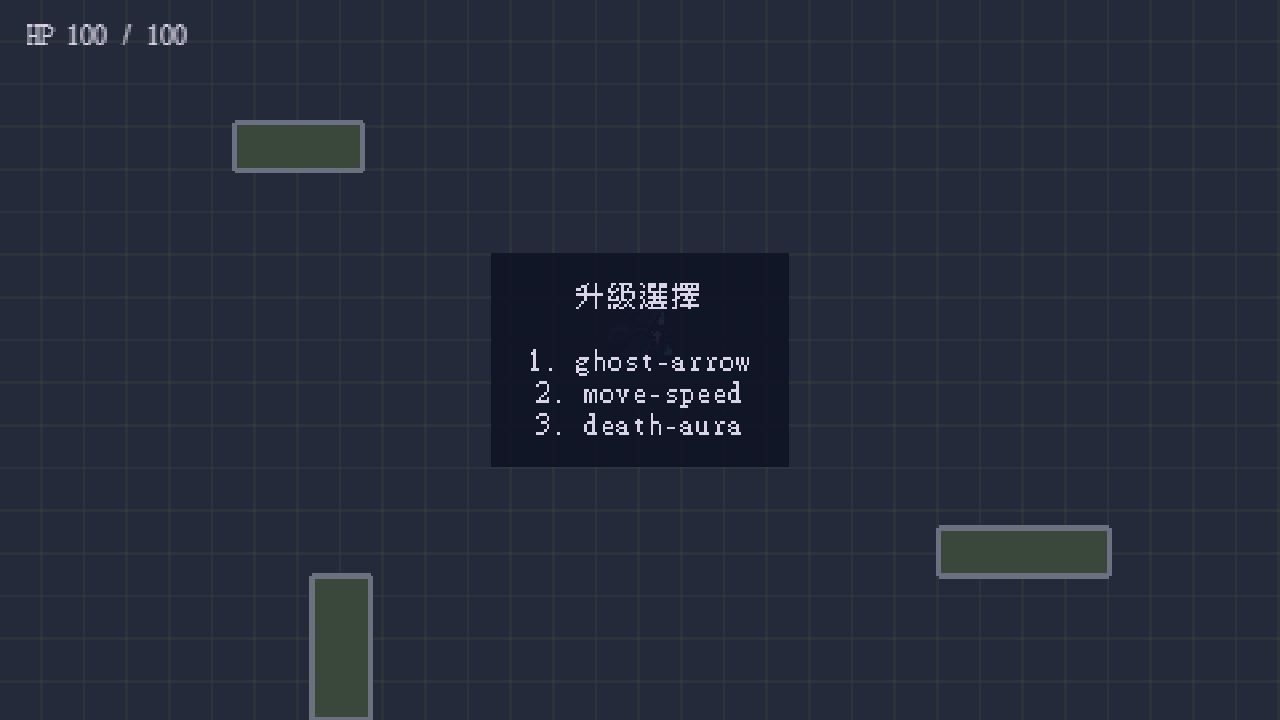
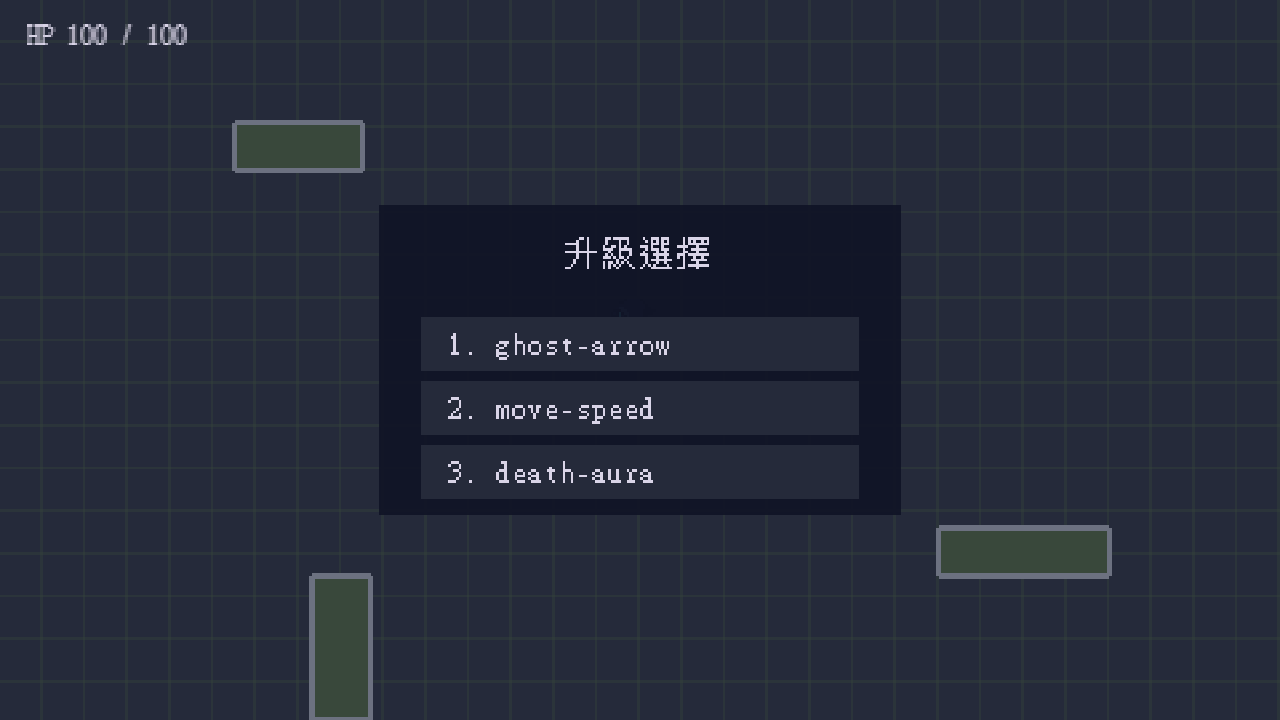
Fix upgrade stepping and pointer hit areas

diff --git a/src/game/scenes/OverlayScene.ts b/src/game/scenes/OverlayScene.ts
@@ -2,11 +2,15 @@ import Phaser from 'phaser';
 
 import { GAME_HEIGHT, SCENE_KEYS } from '../constants';
 import { offGameEvent, onGameEvent, type EventEnvelope } from '../events/GameEventBus';
+import { UPGRADE_HEADING_Y, UPGRADE_OPTION_BOUNDS, UPGRADE_PANEL } from '../ui/upgradeLayout';
 
 export class OverlayScene extends Phaser.Scene {
   private healthText!: Phaser.GameObjects.Text;
   private pauseText!: Phaser.GameObjects.Text;
-  private upgradeText!: Phaser.GameObjects.Text;
+  private upgradePanel!: Phaser.GameObjects.Rectangle;
+  private upgradeHeading!: Phaser.GameObjects.Text;
+  private readonly upgradeRows: Phaser.GameObjects.Rectangle[] = [];
+  private readonly upgradeOptions: Phaser.GameObjects.Text[] = [];
 
   constructor() {
     super(SCENE_KEYS.overlay);
@@ -27,18 +31,54 @@ export class OverlayScene extends Phaser.Scene {
       })
       .setOrigin(0.5)
       .setVisible(false);
-    this.upgradeText = this.add
-      .text(240, GAME_HEIGHT / 2, '', {
+    this.upgradePanel = this.add
+      .rectangle(
+        UPGRADE_PANEL.x,
+        UPGRADE_PANEL.y,
+        UPGRADE_PANEL.width,
+        UPGRADE_PANEL.height,
+        0x101426,
+        0.94,
+      )
+      .setDepth(9)
+      .setVisible(false);
+    this.upgradeHeading = this.add
+      .text(UPGRADE_PANEL.x, UPGRADE_HEADING_Y, '', {
         align: 'center',
-        backgroundColor: '#101426ee',
         color: '#d9d4e7',
         fontFamily: 'monospace',
-        fontSize: '11px',
-        padding: { x: 14, y: 10 },
+        fontSize: '13px',
       })
       .setOrigin(0.5)
       .setDepth(10)
       .setVisible(false);
+    UPGRADE_OPTION_BOUNDS.forEach((bounds) => {
+      this.upgradeRows.push(
+        this.add
+          .rectangle(
+            bounds.x + bounds.width / 2,
+            bounds.y + bounds.height / 2,
+            bounds.width,
+            bounds.height,
+            0x252a3a,
+          )
+          .setDepth(10)
+          .setVisible(false),
+      );
+      this.upgradeOptions.push(
+        this.add
+          .text(bounds.x + 6, bounds.y + bounds.height / 2, '', {
+            color: '#d9d4e7',
+            fixedWidth: bounds.width - 12,
+            fontFamily: 'monospace',
+            fontSize: '11px',
+            padding: { x: 4, y: 2 },
+          })
+          .setOrigin(0, 0.5)
+          .setDepth(10)
+          .setVisible(false),
+      );
+    });
 
     onGameEvent(this.registry.events, 'player:health-changed', this.onHealth, this);
     onGameEvent(this.registry.events, 'game:pause-changed', this.onPause, this);
@@ -62,11 +102,18 @@ export class OverlayScene extends Phaser.Scene {
 
   private onUpgradeOffered(event: EventEnvelope<'upgrade:offered'>): void {
     const heading = event.payload.source === 'boss' ? '關卡獎勵' : '升級選擇';
-    const options = event.payload.optionIds.map((id, index) => `${index + 1}. ${id}`).join('\n');
-    this.upgradeText.setText(`${heading}\n\n${options}`).setVisible(true);
+    this.upgradePanel.setVisible(true);
+    this.upgradeHeading.setText(heading).setVisible(true);
+    this.upgradeRows.forEach((row) => row.setVisible(true));
+    this.upgradeOptions.forEach((text, index) => {
+      text.setText(`${index + 1}. ${event.payload.optionIds[index] ?? ''}`).setVisible(true);
+    });
   }
 
   private onUpgradeSelected(): void {
-    this.upgradeText.setVisible(false);
+    this.upgradePanel.setVisible(false);
+    this.upgradeHeading.setVisible(false);
+    this.upgradeRows.forEach((row) => row.setVisible(false));
+    this.upgradeOptions.forEach((text) => text.setVisible(false));
   }
 }

diff --git a/src/game/scenes/GameScene.ts b/src/game/scenes/GameScene.ts
@@ -1,7 +1,7 @@
 import Phaser from 'phaser';
 
 import { imageAsset } from '../assets';
-import { GAME_HEIGHT, HEAL_PICKUP_AMOUNT, SCENE_KEYS } from '../constants';
+import { HEAL_PICKUP_AMOUNT, SCENE_KEYS } from '../constants';
 import { GAME_CONFIG } from '../content';
 import { GameEventPublisher } from '../events/GameEventBus';
 import { BossSafetyWindow } from '../player/BossSafetyWindow';
@@ -25,6 +25,7 @@ import type {
   TestSnapshot,
   TestRuntimeState,
 } from '../testing/types';
+import { upgradeOptionAt } from '../ui/upgradeLayout';
 
 const PLAYER_ASSET_KEY = 'player-soul-guide';
 const PLAYER_CONFIG = GAME_CONFIG.player;
@@ -189,13 +190,7 @@ export class GameScene extends Phaser.Scene {
     }
     const selectedIndex = this.upgradeKeys.findIndex((key) => Phaser.Input.Keyboard.JustDown(key));
     if (selectedIndex >= 0 && this.progression.activeOffer) this.selectUpgrade(selectedIndex);
-    if (
-      this.paused ||
-      this.model.dead ||
-      this.upgradeFlow.modalActive ||
-      this.upgradeFlow.baseState === 'boss-cleanup'
-    )
-      return;
+    if (this.simulationSuspended()) return;
     this.runSimulation(delta, false);
   }
 
@@ -230,7 +225,10 @@ export class GameScene extends Phaser.Scene {
     this.testRemainderMs += ms;
     const steps = Math.floor((this.testRemainderMs + fixedStepMs * 1e-9) / fixedStepMs);
     this.testRemainderMs -= steps * fixedStepMs;
-    for (let step = 0; step < steps; step += 1) this.runSimulation(fixedStepMs, true);
+    for (let step = 0; step < steps; step += 1) {
+      if (this.simulationSuspended()) break;
+      this.runSimulation(fixedStepMs, true);
+    }
     await Promise.resolve();
   }
 
@@ -693,9 +691,8 @@ export class GameScene extends Phaser.Scene {
 
   private selectUpgradeWithPointer(pointer: Phaser.Input.Pointer): void {
     if (!this.progression.activeOffer) return;
-    const firstOptionY = GAME_HEIGHT / 2 - 8;
-    const index = Math.floor((pointer.y - firstOptionY) / 16);
-    if (index >= 0 && index <= 2) this.selectUpgrade(index);
+    const index = upgradeOptionAt(pointer.x, pointer.y);
+    if (index !== null) this.selectUpgrade(index);
   }
 
   private runSimulation(delta: number, manuallyIntegrateMovement: boolean): void {
@@ -755,6 +752,15 @@ export class GameScene extends Phaser.Scene {
       simulationSuspended: this.upgradeFlow.baseState === 'boss-cleanup',
       playerDead: this.model.dead,
     });
+  }
+
+  private simulationSuspended(): boolean {
+    return (
+      this.paused ||
+      this.model.dead ||
+      this.upgradeFlow.modalActive ||
+      this.upgradeFlow.baseState === 'boss-cleanup'
+    );
   }
 
   private syncSecondaryWeapons(): void {

diff --git a/tests/e2e/progression.spec.ts b/tests/e2e/progression.spec.ts
@@ -11,11 +11,12 @@ test('pauses live simulation for a deterministic upgrade and resumes after selec
     await api.ready();
     await api.startAdventure({ seed: 'upgrade-seed-001' });
     await api.spawnXpGem({ value: 5, x: 960, y: 536 });
-    await api.advance(17);
+    await api.advance(1000);
   });
 
   const before = await page.evaluate(() => window.__SOULRUN_TEST__?.snapshot());
   expect(before).toMatchObject({ state: 'level-up', player: { level: 2, xp: 0 } });
+  expect(before?.simulationTimeMs).toBeCloseTo(1000 / 60, 5);
   expect(before?.activeUpgradeOffer?.optionIds).toHaveLength(3);
   expect(new Set(before?.activeUpgradeOffer?.optionIds).size).toBe(3);
   if (process.env.CAPTURE_EVIDENCE === '1') {
@@ -66,6 +67,39 @@ test('pauses live simulation for a deterministic upgrade and resumes after selec
   const root = page.locator('[data-testid="game-root"]');
   await expect(root).not.toHaveAttribute('data-soul-blade-count', '0');
   await expect(root).not.toHaveAttribute('data-death-aura-count', '0');
+});
+
+test('uses bounded rendered rows for pointer upgrade selection', async ({ page }) => {
+  await page.goto('/?test=1&seed=upgrade-seed-001');
+  await page.waitForFunction(() => Boolean(window.__SOULRUN_TEST__));
+  await page.evaluate(async () => {
+    const api = window.__SOULRUN_TEST__;
+    if (!api) throw new Error('Missing test API');
+    await api.ready();
+    await api.startAdventure({ seed: 'upgrade-seed-001' });
+    await api.spawnXpGem({ value: 5, x: 960, y: 536 });
+    await api.advance(17);
+  });
+  const offer = await page.evaluate(() => window.__SOULRUN_TEST__?.snapshot().activeUpgradeOffer);
+  const thirdOption = offer?.optionIds[2];
+  if (!thirdOption) throw new Error('Missing third upgrade option');
+
+  const canvas = page.locator('canvas');
+  const box = await canvas.boundingBox();
+  if (!box) throw new Error('Canvas bounds unavailable');
+  await page.mouse.click(box.x + (20 / 480) * box.width, box.y + (177 / 270) * box.height);
+  expect(
+    (await page.evaluate(() => window.__SOULRUN_TEST__?.snapshot()))?.activeUpgradeOffer?.id,
+  ).toBe(offer?.id);
+
+  await page.mouse.click(box.x + (240 / 480) * box.width, box.y + (177 / 270) * box.height);
+  const selected = await page.evaluate(() => window.__SOULRUN_TEST__?.snapshot());
+  expect(selected?.activeUpgradeOffer).toBeNull();
+  const selectedLevel =
+    selected?.weaponLevels[thirdOption] ??
+    selected?.passiveLevels[thirdOption] ??
+    selected?.masteryLevels[thirdOption];
+  expect(selectedLevel).toBe(thirdOption === 'ghost-arrow' ? 2 : 1);
 });
 
 test('freezes non-test Arcade motion during an upgrade and restores boss-fight state', async ({

diff --git a/src/game/ui/upgradeLayout.ts b/src/game/ui/upgradeLayout.ts
@@ -1,0 +1,39 @@
+import { GAME_HEIGHT, GAME_WIDTH } from '../constants';
+
+export interface UpgradeOptionBounds {
+  readonly x: number;
+  readonly y: number;
+  readonly width: number;
+  readonly height: number;
+}
+
+export const UPGRADE_PANEL = Object.freeze({
+  x: GAME_WIDTH / 2,
+  y: GAME_HEIGHT / 2,
+  width: 196,
+  height: 116,
+});
+
+export const UPGRADE_HEADING_Y = GAME_HEIGHT / 2 - 40;
+
+export const UPGRADE_OPTION_BOUNDS: readonly UpgradeOptionBounds[] = Object.freeze(
+  [0, 1, 2].map((index) =>
+    Object.freeze({
+      x: GAME_WIDTH / 2 - 82,
+      y: GAME_HEIGHT / 2 - 16 + index * 24,
+      width: 164,
+      height: 20,
+    }),
+  ),
+);
+
+export function upgradeOptionAt(x: number, y: number): 0 | 1 | 2 | null {
+  const index = UPGRADE_OPTION_BOUNDS.findIndex(
+    (bounds) =>
+      x >= bounds.x &&
+      x <= bounds.x + bounds.width &&
+      y >= bounds.y &&
+      y <= bounds.y + bounds.height,
+  );
+  return index >= 0 ? (index as 0 | 1 | 2) : null;
+}

diff --git a/tests/unit/upgrade-layout.test.ts b/tests/unit/upgrade-layout.test.ts
@@ -1,0 +1,18 @@
+import { describe, expect, it } from 'vitest';
+
+import { UPGRADE_OPTION_BOUNDS, upgradeOptionAt } from '../../src/game/ui/upgradeLayout';
+
+describe('upgradeOptionAt', () => {
+  it('maps each rendered row to its matching option', () => {
+    UPGRADE_OPTION_BOUNDS.forEach((bounds, index) => {
+      expect(upgradeOptionAt(bounds.x + bounds.width / 2, bounds.y + bounds.height / 2)).toBe(
+        index,
+      );
+    });
+  });
+
+  it('ignores clicks outside the rendered rows', () => {
+    expect(upgradeOptionAt(20, 135)).toBeNull();
+    expect(upgradeOptionAt(240, 105)).toBeNull();
+  });
+});
